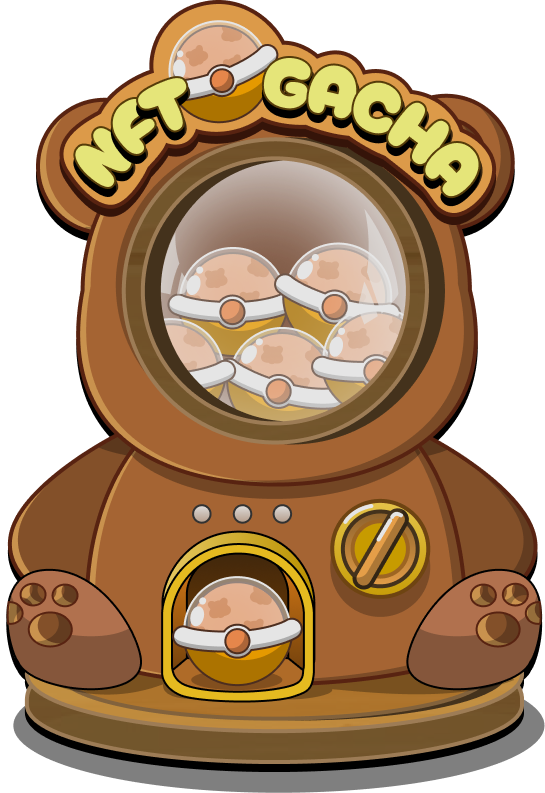
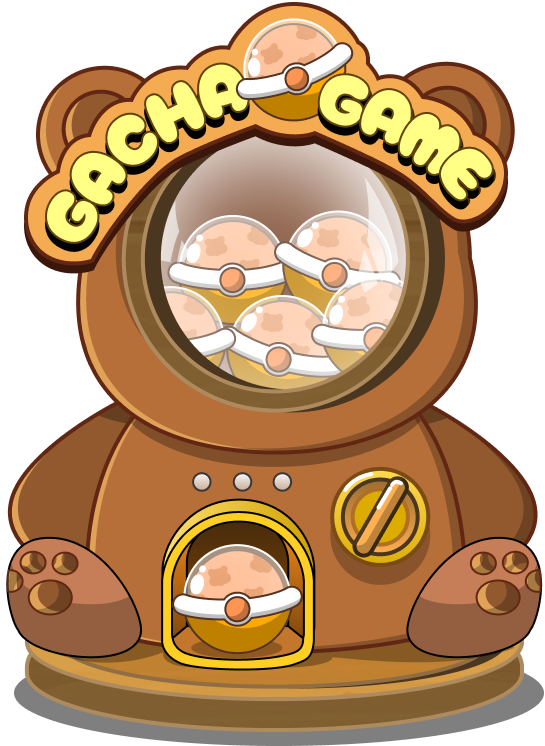
change gacha img and remove guide book

diff --git a/src/sections/playground/index.tsx b/src/sections/playground/index.tsx
@@ -128,7 +128,7 @@ const PlaygroundView = () => {
             className="w-full h-full absolute object-center object-contain opacity-100 z-[2] group-hover:opacity-0 group-hover:z-[1] transition-all duration-300"
           />
           <img
-            src="/images/playground/v2/entry-nft-gacha.png"
+            src="/images/playground/v2/entry-nft-gacha-white.png"
             alt=""
             className="w-full h-full absolute object-center object-contain opacity-0 z-[1] origin-bottom group-hover:scale-[1.32] group-hover:opacity-100 group-hover:z-[2] transition-all duration-300"
           />

diff --git a/src/layouts/main/index.tsx b/src/layouts/main/index.tsx
@@ -313,7 +313,7 @@ const MainLayout = (props: Props) => {
       </div>
       <MapModal />
       <MenuV3 />
-      <GuidingTutorial />
+      {/* <GuidingTutorial /> */}
       <NFTHolderPerksModal open={nftRewardStore.showNftReward} onClose={() => { nftRewardStore.set({ showNftReward: false }) }} />
       {
         !isSystemMaintenanceDowntime && (

diff --git a/src/layouts/mobile/index.tsx b/src/layouts/mobile/index.tsx
@@ -436,7 +436,7 @@ const MobileLayout: React.FC<{ children: React.ReactNode }> = ({
                 </div>
               </div>
             )}
-            <GuidingTutorial />
+            {/* <GuidingTutorial /> */}
           </>
         )
       }
